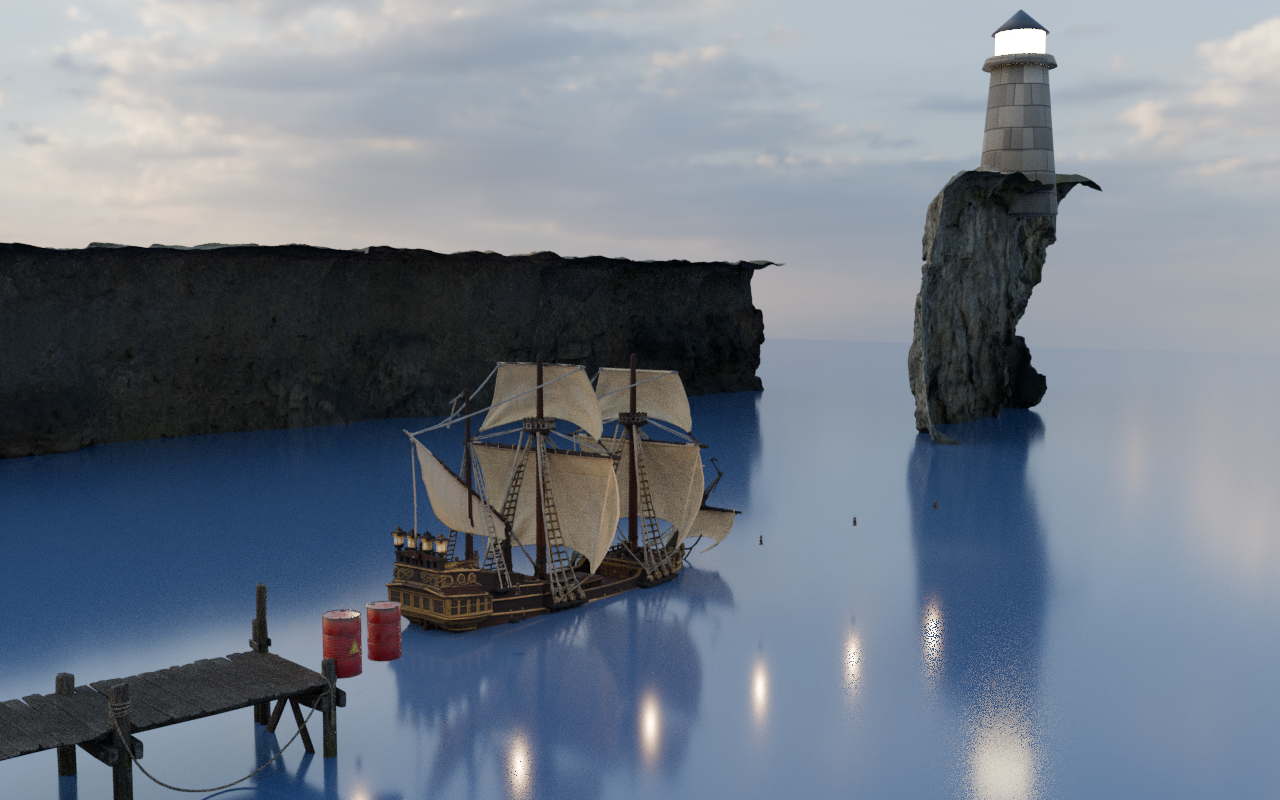
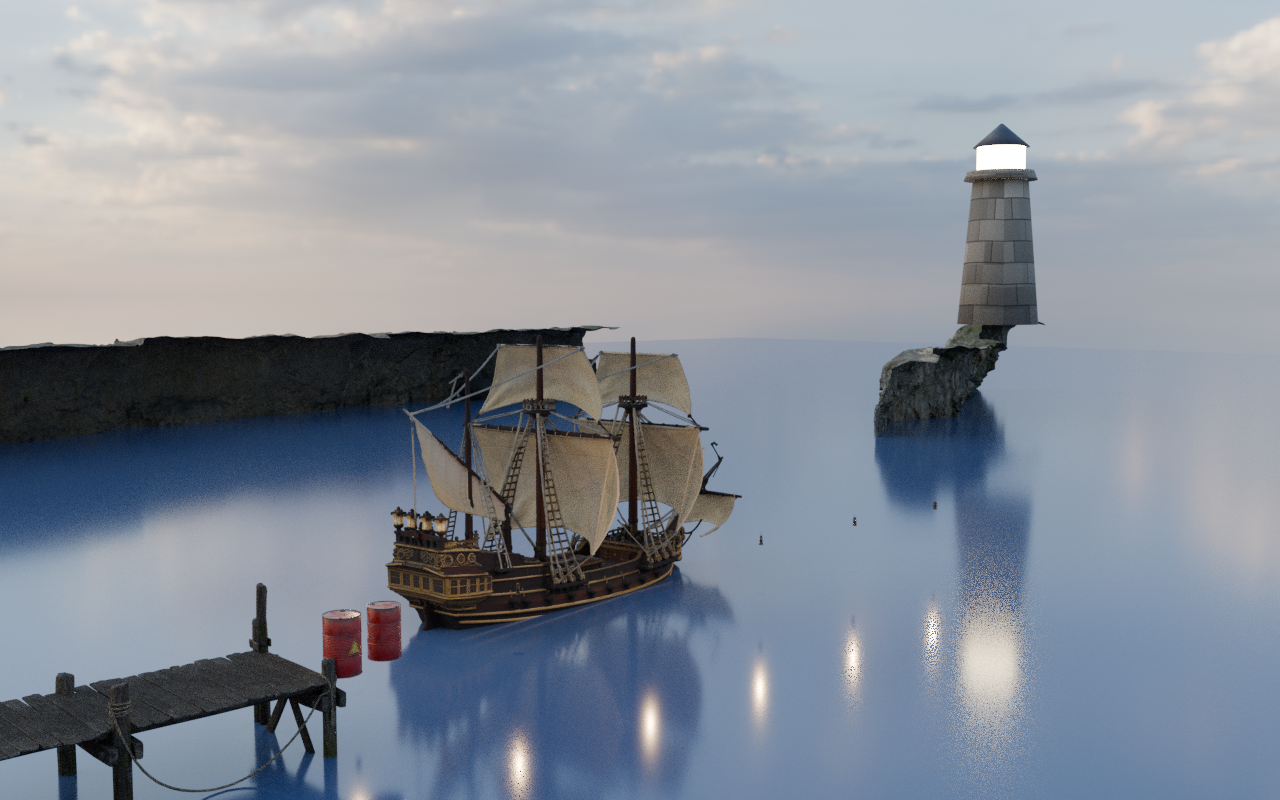
Puerto v2.1: costuras de escaneos escondidas, empalme del muelle medido, flotación de la nao corregida, faro enterrado en el peñón

diff --git a/3d/build_puerto_v2.py b/3d/build_puerto_v2.py
@@ -57,14 +57,16 @@ for o in kit:
     if o not in secciones:
         bpy.data.objects.remove(o)
 g1 = grupo(secciones, "MuelleA")
-# segundo tramo: duplicado desplazado la longitud de la cadena (~8.2 en y)
+# segundo tramo: duplicado empalmado midiendo la cadena real
+mn, mx = bbox(secciones)
+largo = mx[1] - mn[1] - 0.35          # solape leve para esconder la junta
 bpy.ops.object.select_all(action="DESELECT")
 for o in secciones:
     o.select_set(True)
 bpy.ops.object.duplicate()
 dup = [o for o in bpy.context.selected_objects]
 g2 = grupo(dup, "MuelleB")
-g2.location = (0, -8.2, 0)
+g2.location = (0, -largo, 0)
 muelle = grupo([g1, g2], "Muelle")
 muelle.rotation_euler = (0, 0, math.radians(90))   # el muelle corre a lo largo de X
 muelle.location = (-22, 2, -1.5)                   # cubierta ≈ +1.1 sobre el agua
@@ -93,15 +95,15 @@ def acantilado(asset, nombre, ancho, alto_extra, pos, rotz):
     s = ancho / (maxs[0] - mins[0])
     g.scale = (s, s, s * alto_extra)
     g.rotation_euler = (0, 0, math.radians(rotz))
-    g.location = (pos[0], pos[1], -mins[2] * s * alto_extra - 1.6)
-    return g, maxs[2] * s * alto_extra - 1.6
+    g.location = (pos[0], pos[1], -mins[2] * s * alto_extra - 3.2)
+    return g, maxs[2] * s * alto_extra - 3.2
 
-acantilado("coastal_cliff_01", "Acantilado1", 64, 1.5, (6, 42), 188)
-_, topF = acantilado("coastal_cliff_02", "Acantilado2", 40, 1.7, (36, 24), 205)
-acantilado("coast_rocks_01", "Rocas1", 14, 1.6, (-34, 8), 35)
+acantilado("coastal_cliff_01", "Acantilado1", 70, 1.0, (-4, 46), 196)
+_, topF = acantilado("coastal_cliff_02", "Acantilado2", 34, 1.0, (34, 26), 205)
+acantilado("coast_rocks_01", "Rocas1", 18, 1.4, (-31, 0), 25)
 
 # ---------------- barco holandés de atrezzo, fondeado a contraluz ----------------
-coloca("dutch_ship_medium", "BarcoFondo", 1.0, (26, -8, -0.4), 200)
+# (barco de fondo retirado: la nao manda sola en el plano)
 
 # ---------------- nao IA protagonista amarrada al muelle ----------------
 if os.path.exists("/tmp/nao-ia.glb"):
@@ -111,7 +113,7 @@ if os.path.exists("/tmp/nao-ia.glb"):
     g = grupo(nuevos, "NaoIA")
     g.scale = (11, 11, 11)
     g.rotation_euler = (0, 0, math.radians(8))
-    g.location = (-12, 6.6, 2.05)
+    g.location = (-12, 6.6, 2.45)
     print("NAO colocada")
 
 # ---------------- faro propio sobre el acantilado 2 ----------------
@@ -143,7 +145,7 @@ bl.inputs["Base Color"].default_value = (1, 0.85, 0.6, 1)
 bl.inputs["Emission Color"].default_value = (1, 0.8, 0.45, 1)
 bl.inputs["Emission Strength"].default_value = 40
 
-FX, FY, FZ = 33, 22, min(11.0, max(6.0, topF))
+FX, FY, FZ = 33, 23, min(10.0, max(5.0, topF - 1.4))
 def cono(nombre, loc, r1, r2, alto, mt, caras=28):
     bpy.ops.mesh.primitive_cone_add(location=loc, radius1=r1, radius2=r2, depth=alto, vertices=caras)
     o = bpy.context.active_object
